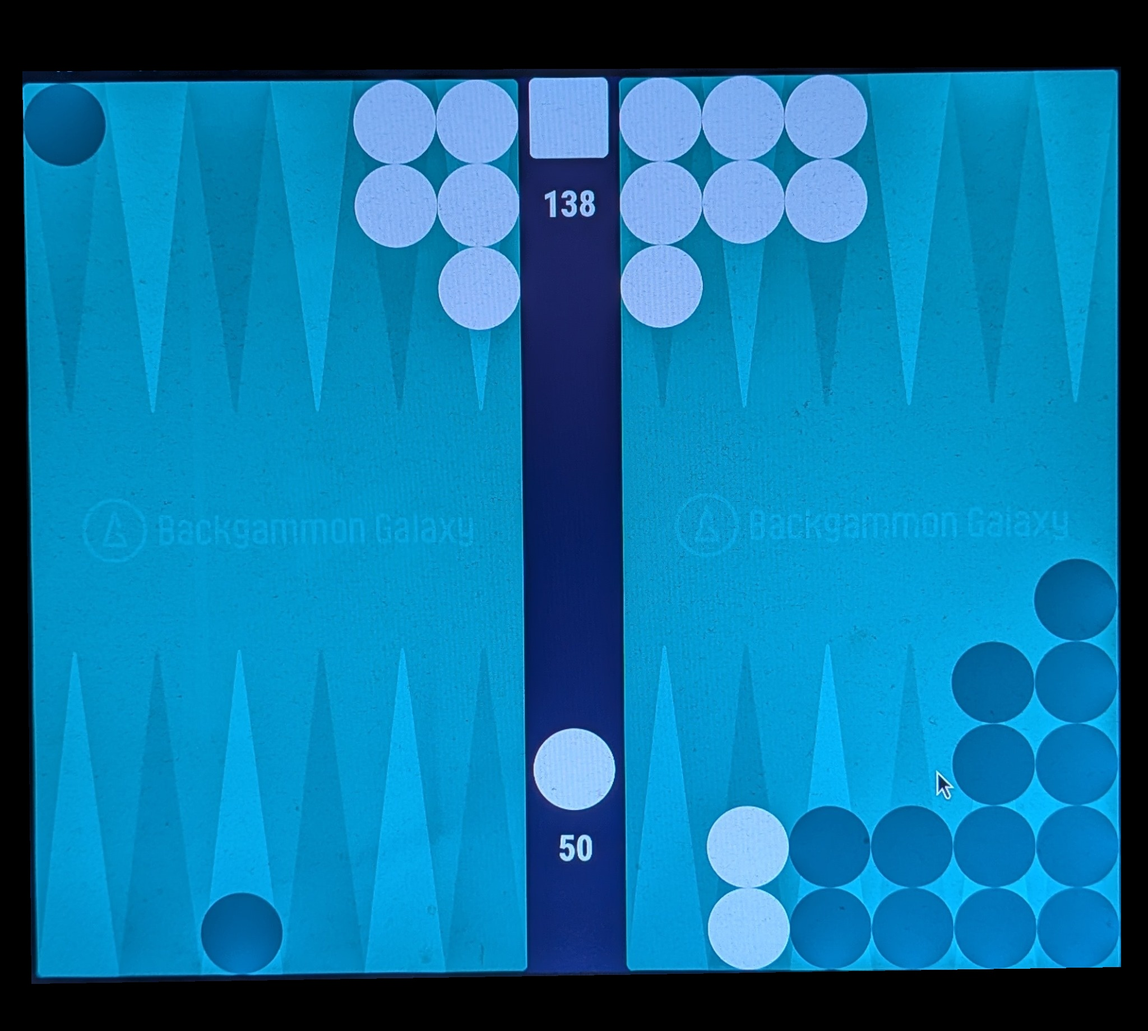
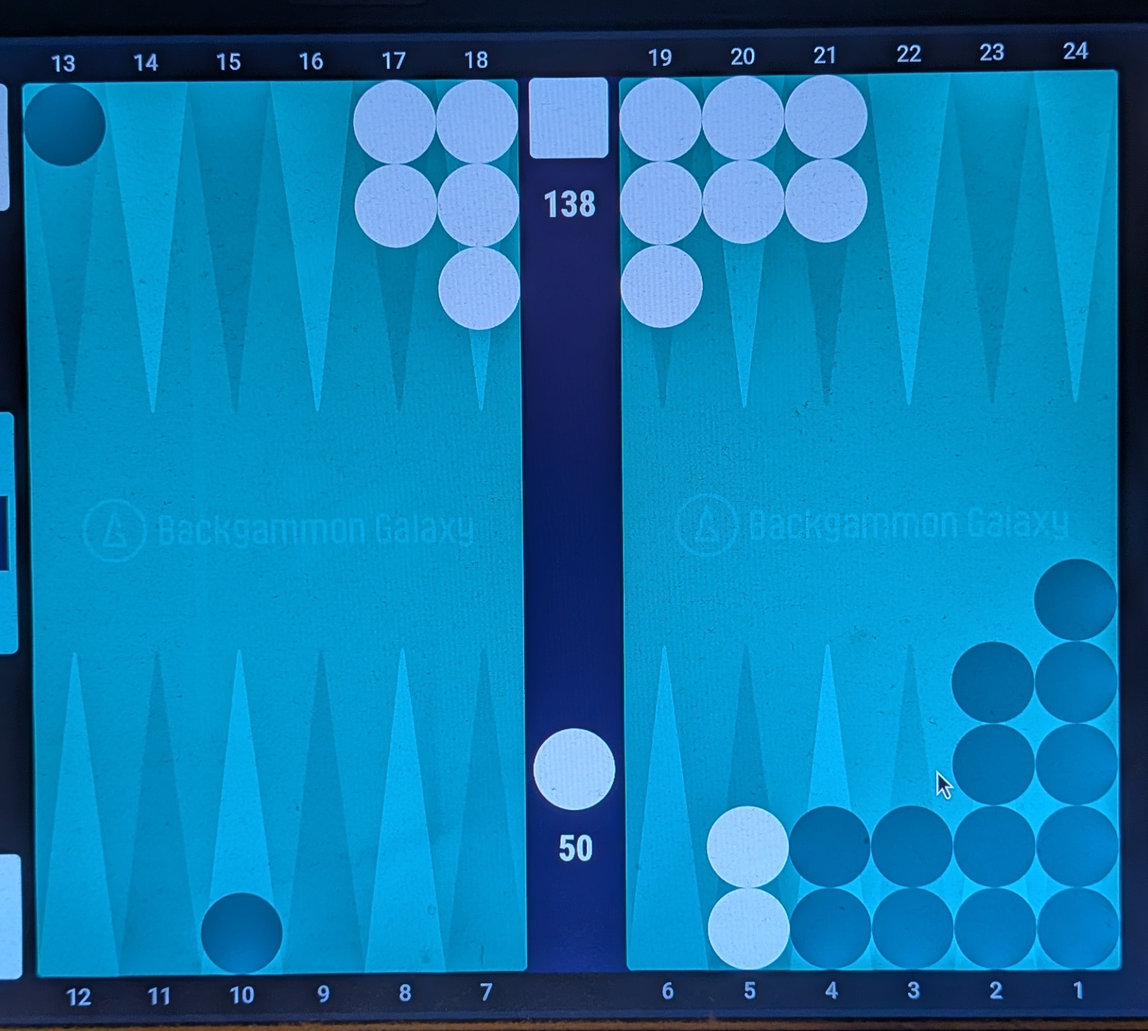
test(recognizer): samples の hedmzy を塗っていない元の写真にし、テストを戻す（TODO-175）
黒塗りは不要（2026-10-20 ユーザー）。基準の行と README の表は変わらない。

Claude-Session: https://claude.ai/code/session_011zBSMbTMACRZ8iNNQxVcaW

Changed region(s): [[0.0, 0.0, 1.0, 1.0]]

diff --git a/analyzer/test_corners.py b/analyzer/test_corners.py
@@ -1,30 +1,23 @@
 """recognizer/corners.py: the far / near side of a screen photo goes inside the rows of numbers (TODO-175)."""
 
 import json
-import os
 import sys
 from pathlib import Path
 
 import cv2
 import numpy as np
-import pytest
 
 ROOT = Path(__file__).resolve().parent.parent
 sys.path.insert(0, str(ROOT / "recognizer"))
 import corners  # noqa: E402
 
-COLLECTED = Path(os.environ.get("BG_COLLECTED", ROOT / "collected"))
-
 
 def test_top_side_of_a_screen_photo_is_not_the_checkers_tops():
-    """Backgammon Galaxy's screen, as taken (collected/user-*-hedmzy; the Pi's, not in the repository):
-    the top left corner was 51 px (of 2048) off, on the line along the top checkers; with the fix 19 px.
-    Not on samples/collected-galaxy-screen-9, the same photo painted black outside the board: there main finds
-    the same corners as the fix (42 px), the frame of the rows of numbers being painted over."""
-    names = sorted(COLLECTED.glob("user-*-hedmzy.truth.json"))
-    if not names:
-        pytest.skip("collected/ has no photo hedmzy")
-    t = json.loads(names[0].read_text())
-    img = cv2.imread(str(COLLECTED / t["image"]))
+    """samples/collected-galaxy-screen-9 (Backgammon Galaxy's screen): the top left corner was 51 px (of 2048)
+    off, on the line along the top checkers; with the fix 19 px."""
+    t = json.loads(
+        (ROOT / "samples" / "collected-galaxy-screen-9.truth.json").read_text()
+    )
+    img = cv2.imread(str(ROOT / "samples" / t["image"]))
     found = np.float64(corners.find_corners(img))
     assert np.linalg.norm(found[0] - np.float64(t["corners_TL_TR_BR_BL"][0])) < 35
